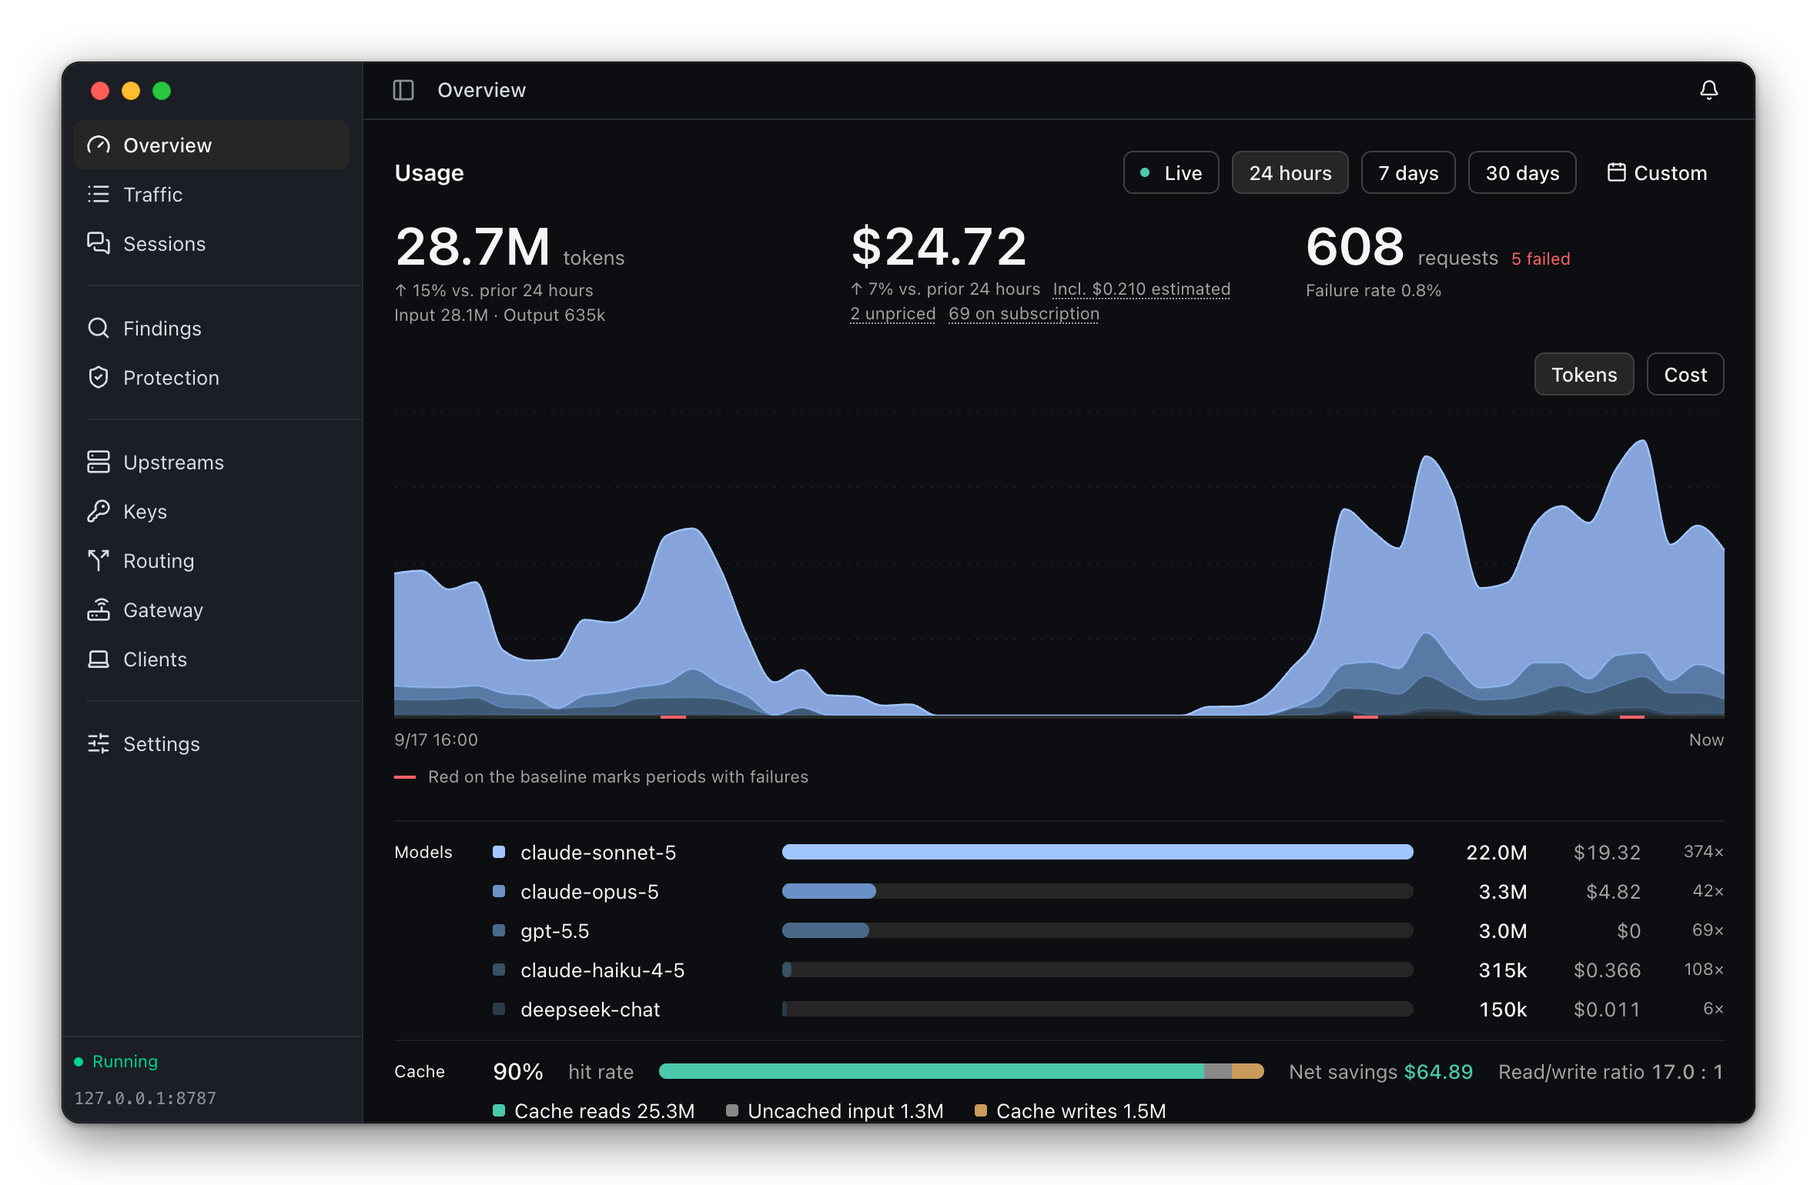
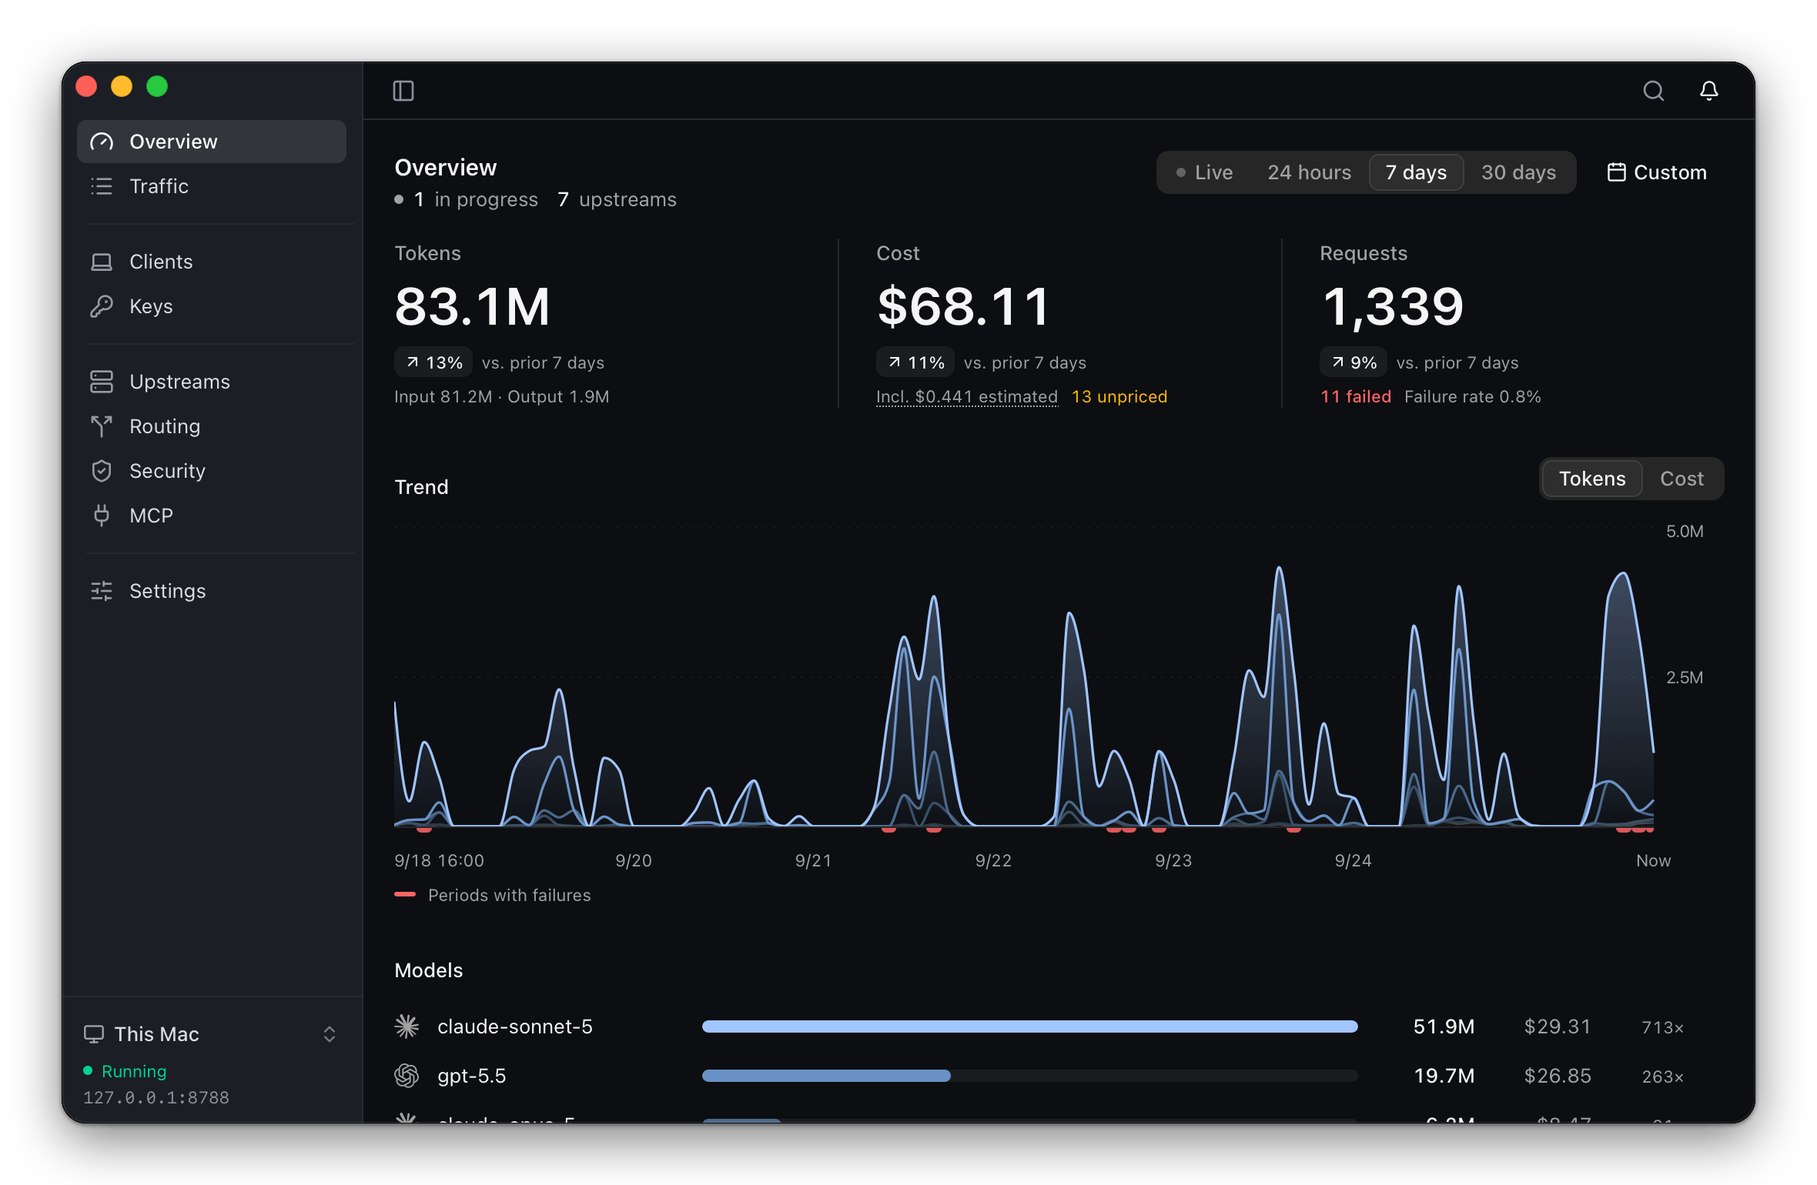
docs(profile): three products in a formal register, with install paths and current screenshots (#9)
- Describe ThinkWatch Enterprise, ThinkWatch Lite and ThinkWatch Core side
  by side, and replace the question heading, the slogan and the emoji
  section markers with noun-phrase headings and declarative text.
- Lite: what the app records (cost, routing, the five security
  protections and their defaults, MCP, clients, menu bar and
  notifications), the interface languages, the remote core connection,
  and the platforms and install commands.
- Core: prebuilt binaries, the Linux server install script and a Cargo
  build, with links to the server deployment guide and the configuration
  reference; prices come from a public price table refreshed daily, not a
  fixed snapshot.
- Replace the Lite overview screenshots with the English ones from the
  Lite repository's screenshot pipeline (docs/screenshots/en/overview-*.png
  at ThinkWatch-Lite@ac57512), which show the current navigation.
- List the Homebrew tap among the repositories, and link the security
  policy and the commercial license page.

diff --git a/profile/README.md b/profile/README.md
@@ -5,13 +5,13 @@
   </picture>
 </p>
 
-<h3 align="center">One gateway between your AI clients and the models they call</h3>
+<h3 align="center">AI API and MCP gateways</h3>
 
-<p align="center">For a whole organization, or for one developer's machine.</p>
+<p align="center">ThinkWatch Enterprise for organizations, ThinkWatch Lite for individual developers, and ThinkWatch Core, the gateway engine they share.</p>
 
 <p align="center">
-  <a href="https://thinkwat.ch">Website</a> ·
-  <a href="https://thinkwat.ch/docs">Docs</a> ·
+  <a href="https://thinkwat.ch/">Website</a> ·
+  <a href="https://thinkwat.ch/docs/">Documentation</a> ·
   <a href="https://github.com/ThinkWatchProject/ThinkWatch">ThinkWatch Enterprise</a> ·
   <a href="https://github.com/ThinkWatchProject/ThinkWatch-Lite">ThinkWatch Lite</a> ·
   <a href="https://github.com/ThinkWatchProject/ThinkWatch-Core">ThinkWatch Core</a>
@@ -19,57 +19,58 @@
 
 ---
 
-Claude Code, Codex, Cursor, and your own agents talk to model providers
-directly. API keys end up scattered, nobody sees what was sent, and the bill is
-a surprise. ThinkWatch puts a gateway in that path, so every model request and
-tool call is routed, checked, and accounted for.
-
-It comes as two products, built for different people.
+AI clients such as Claude Code, Codex and Cursor call model providers
+directly, each with its own API key and without a shared record of what was
+sent or what it cost. ThinkWatch places a gateway on that path. Each request
+is routed to an upstream, inspected in both directions and recorded with its
+cost. ThinkWatch Enterprise adds organization-wide authentication,
+permissions, rate limits and budgets, and passes MCP tool calls through the
+same gateway.
 
 <table>
   <tr>
-    <td width="50%" valign="top">
-      <h3>🏢 ThinkWatch Enterprise</h3>
-      <p><b>For teams and enterprises</b></p>
-      <p>A self-hosted AI API and MCP gateway. Virtual keys, SSO and RBAC, audit logs, rate limits and budgets, and cost attribution, all in one control plane.</p>
-      <p>
-        <a href="https://github.com/ThinkWatchProject/ThinkWatch/stargazers"><img src="https://img.shields.io/github/stars/ThinkWatchProject/ThinkWatch?style=social" alt="GitHub Stars" /></a>
-      </p>
-      <p><sub>Rust · React · PostgreSQL · Redis · Kubernetes<br>Business Source License 1.1</sub></p>
+    <td width="33%" valign="top">
+      <h3>ThinkWatch Enterprise</h3>
+      <p><b>For organizations</b></p>
+      <p>A self-hosted AI API and MCP gateway with a web console: virtual keys, SSO through OIDC, role-based access control, audit logs, rate limits and budgets.</p>
+      <p><sub>Rust · React · PostgreSQL · Redis · ClickHouse<br>Docker Compose or Kubernetes<br>Business Source License 1.1</sub></p>
       <p><a href="https://github.com/ThinkWatchProject/ThinkWatch"><b>ThinkWatchProject/ThinkWatch</b></a></p>
     </td>
-    <td width="50%" valign="top">
-      <h3>💻 ThinkWatch Lite</h3>
+    <td width="33%" valign="top">
+      <h3>ThinkWatch Lite</h3>
       <p><b>For individual developers</b></p>
-      <p>A desktop app for a local AI API gateway, in the macOS menu bar, the Windows notification area or the Linux system tray. Point Claude Code, Codex CLI or another client at a local port, and see what each request cost, which upstream served it and why, and what was sent along with it.</p>
-      <p><sub>Tauri 2 · React 19 · Rust<br>MIT License · macOS 12 or later, Apple silicon · Windows 10 21H2 or later, x64 or ARM64 · Linux, x86_64 or aarch64</sub></p>
+      <p>A desktop app for a local AI API gateway. It shows what each request cost, where it was routed and what was redacted, and it can also connect to ThinkWatch Core running on a server.</p>
+      <p><sub>Tauri 2 · React 19 · Rust<br>macOS · Windows · Linux<br>MIT License</sub></p>
       <p><a href="https://github.com/ThinkWatchProject/ThinkWatch-Lite"><b>ThinkWatchProject/ThinkWatch-Lite</b></a></p>
+    </td>
+    <td width="33%" valign="top">
+      <h3>ThinkWatch Core</h3>
+      <p><b>For servers and for projects built on the engine</b></p>
+      <p>Rust crates and the <code>twcore</code> gateway binary. It runs inside ThinkWatch Lite, or on its own as a gateway on a Linux server.</p>
+      <p><sub>Rust<br>macOS · Windows · Linux<br>MIT License</sub></p>
+      <p><a href="https://github.com/ThinkWatchProject/ThinkWatch-Core"><b>ThinkWatchProject/ThinkWatch-Core</b></a></p>
     </td>
   </tr>
 </table>
 
-Underneath both sits [**ThinkWatch Core**](https://github.com/ThinkWatchProject/ThinkWatch-Core),
-a set of MIT-licensed Rust crates for routing, failover, cost accounting, and
-redaction.
+## Choosing a product
 
-## Which one is for you?
-
-| If you… | Use |
+| Requirement | Product |
 |---|---|
-| run AI access for a team and need keys, permissions, audit, and budgets in one place | **ThinkWatch Enterprise** |
-| need to govern MCP tool calls across an organization | **ThinkWatch Enterprise** |
-| are one developer who wants to know what your coding agents cost and where their requests go | **ThinkWatch Lite** |
-| are building your own gateway, or want the routing and redaction engine as a library | **ThinkWatch Core** |
+| Central control of AI access for a team or a company: keys, permissions, audit and budgets | **ThinkWatch Enterprise** |
+| Governance of MCP tool calls across an organization | **ThinkWatch Enterprise** |
+| A record of what one developer's coding agents cost and where their requests went | **ThinkWatch Lite** |
+| A gateway on a Linux server, managed from ThinkWatch Lite on a desktop | **ThinkWatch Core** with **ThinkWatch Lite** |
+| The routing, pricing and redaction engine as Rust crates | **ThinkWatch Core** |
 
 ---
 
-## 🏢 ThinkWatch Enterprise: the AI bastion host
+## ThinkWatch Enterprise
 
-Just as an SSH bastion host is the single gateway through which all server
-access flows, ThinkWatch Enterprise is the single gateway through which all AI
-access flows.
-
-> Every model request. Every tool call. Every token. **Authenticated, authorized, rate-limited, logged, and accounted for.**
+ThinkWatch Enterprise is an AI bastion host. In the way that an SSH bastion
+host is the single entry point for access to servers, ThinkWatch Enterprise is
+the single entry point for an organization's AI API requests and MCP tool
+calls.
 
 ```
                     ┌──────────────────────────────────────┐
@@ -84,80 +85,175 @@ access flows.
                     └──────────────────────────────────────┘
 ```
 
-- **AI API gateway.** OpenAI, Anthropic, Google Gemini, Azure OpenAI, and AWS Bedrock behind one endpoint, with scoped virtual keys per team, project, or developer.
-- **MCP gateway.** A central tool proxy with namespace isolation, tool-level RBAC, and an audit trail for every invocation.
-- **Security and compliance.** SSO through any OIDC provider, role-based access control, PII redaction, and encryption at rest.
-- **Rate limits and budgets.** Request and token limits per key or per user, with spend budgets and alerts.
-- **Observability.** Searchable audit logs, cost analytics, and Prometheus metrics.
+- **AI API gateway.** The OpenAI Chat Completions, Anthropic Messages, OpenAI
+  Responses and Gemini APIs on one port, in front of OpenAI, Anthropic, Google
+  Gemini, Azure OpenAI, AWS Bedrock and OpenAI-compatible providers. Virtual
+  API keys carry their own scopes, rotation and expiry.
+- **MCP gateway.** Upstream MCP servers can receive the calling user's own
+  OAuth token or access token, stored encrypted, instead of a shared service
+  account. Tools are namespaced per server and granted per role and per key,
+  and every invocation is recorded in the audit log.
+- **Security and compliance.** Single sign-on through any OIDC provider, five
+  built-in roles, PII redaction, and AES-256-GCM encryption of provider keys
+  and user credentials at rest.
+- **Rate limits and budgets.** Sliding-window request and token limits, and
+  daily, weekly or monthly token budgets, per user, API key, provider or MCP
+  server, with budget alerts.
+- **Observability.** Audit logs of every AI request and tool call, stored in
+  ClickHouse and optionally forwarded to syslog, Kafka or webhooks; usage and
+  cost analytics; Prometheus metrics.
 
-Start with the [Quick Start](https://github.com/ThinkWatchProject/ThinkWatch#quick-start), or read the [docs](https://thinkwat.ch/docs).
+ThinkWatch Enterprise is deployed with Docker Compose or on Kubernetes with a
+Helm chart. The [Quick Start](https://github.com/ThinkWatchProject/ThinkWatch#quick-start)
+runs it locally, and the [deployment guide](https://thinkwat.ch/docs/deployment-guide/)
+covers production.
 
-## 💻 ThinkWatch Lite: your local gateway, on your desktop
+## ThinkWatch Lite
 
-- **What it cost, and how far to trust that number.** Measured, estimated, and unpriced are reported separately and never added together; usage served by a subscription is counted apart from billed usage.
-- **Where each request went, and why.** The rule it matched, the group it went through, and every upstream attempt with its status and duration. A dry run answers the same question before any traffic.
-- **What went out with it.** Secrets replaced on their way to an untrusted upstream and restored in the response, dangerous tool calls cut off mid-stream, and client configuration files scanned for hidden characters and dangerous commands.
-- **Cost at a glance.** Today's cost and output rate, or the quota left on a subscription account, right in the menu bar, the notification area or the system tray.
+ThinkWatch Lite is a desktop app that runs a local AI API gateway from the
+macOS menu bar, the Windows notification area or the Linux system tray.
+Claude Code, Codex and other clients of the Anthropic, OpenAI and Gemini APIs
+send their requests to the gateway, and the app records what each request
+cost, which upstream served it and what was redacted before it was sent.
 
-Released for macOS 12 or later on Apple silicon, for Windows 10 21H2 or later
-on x64 and ARM64, and for Linux (Ubuntu 22.04, Debian 12, Fedora 36 or later) on
-x86_64 and aarch64. The gateway ships inside the app, and the app updates itself.
-[thinkwat.ch/lite](https://thinkwat.ch/lite#install) has one-click downloads of
-the latest version for each. On macOS, Homebrew works too:
+- **Cost.** Each request is priced when it completes. The default price sheet
+  follows a public price table that is refreshed daily, and custom price
+  sheets cover relays that charge differently. Estimated amounts are marked
+  as estimates, and usage without a price is reported as unpriced rather than
+  counted as zero.
+- **Routing.** Rules match on the model, the gateway key, the API format, the
+  input size and the features of a request, and send it to an upstream or to
+  a group that falls back in order, uses a selected member, takes turns, or
+  picks the fastest or the cheapest member. Until the first byte of a
+  response arrives, a failing upstream is replaced by the next one. Each
+  request records the rule it matched and every upstream attempt, and a dry
+  run evaluates the rules for a sample request without sending it.
+- **Security.** Five protections, each set to Off, Observe or Enforce:
+  redaction of credentials in outgoing requests, restored in the response;
+  inspection of the tool calls an upstream returns; detection of hidden
+  characters; content rules; and a limit on output length. The first four
+  are set to Observe by default and the output limit to Off. Built-in rules
+  are listed alongside custom ones, and every match is written to the
+  security log.
+- **MCP.** The MCP servers configured in each client are shown side by side
+  and can be copied between clients or removed; each change is shown before
+  it is written, and the original file is backed up. Client configuration,
+  skills, hooks, slash commands, subagents and project instructions are
+  scanned for hidden characters, prompt injection, dangerous commands and
+  overly broad permissions.
+- **Clients.** Claude Code, Codex, OpenCode, Zed and Aider are pointed at the
+  gateway from the Clients page and can be restored to their previous
+  configuration; for Cursor, Continue and Gemini CLI, the page lists the
+  manual steps.
+- **Menu bar and notifications.** On macOS the menu bar shows today's token
+  usage and cost, and its menu lists requests in progress, the output rate
+  and the quota of subscription accounts. On Windows and Linux the same menu
+  opens from the tray icon. System notifications report conditions that
+  need action, such as an exhausted subscription quota, an expired sign-in
+  or a blocked tool call.
+
+The interface is available in English and Simplified Chinese. It follows the
+system language and can be switched in Settings.
+
+The gateway can also run on a server: ThinkWatch Lite connects to ThinkWatch
+Core on another machine over an encrypted control channel, using the key that
+`twcore control-key` prints on that machine. Remote connections are added in
+Settings › Connection. The app uses one core at a time: while it is connected
+to a remote core, the local core stops and its data is kept. The Clients and
+MCP pages continue to act on the machine the app runs on.
+
+ThinkWatch Lite is released for macOS 12 or later on Apple silicon, Windows 10
+21H2 or later on x64 and ARM64, and Linux on x86_64 and aarch64 (Ubuntu 22.04,
+Debian 12, Fedora 36 or later). The gateway ships inside the app, and the app
+updates itself; a Homebrew installation is updated through Homebrew.
+[thinkwat.ch/lite](https://thinkwat.ch/lite/#install) offers downloads of the
+latest version for each platform. On macOS, the app can also be installed
+with Homebrew:
 
 ```bash
 brew install --cask thinkwatchproject/tap/thinkwatch-lite
 ```
 
-On Linux, one line installs the AppImage:
+On Linux, one command installs the AppImage:
 
 ```bash
 curl -fsSL https://github.com/ThinkWatchProject/ThinkWatch-Lite/releases/latest/download/install.sh | sh
 ```
 
-The disk image, the Windows installers and the AppImages are also on the
-[latest release](https://github.com/ThinkWatchProject/ThinkWatch-Lite/releases/latest).
-The Windows installers are not code-signed: when SmartScreen stops one, choose
-**More info**, then **Run anyway**.
+The disk image, the Windows installers and the AppImages are also attached to
+the [latest release](https://github.com/ThinkWatchProject/ThinkWatch-Lite/releases/latest).
+The Windows installers are not code-signed: when SmartScreen blocks one,
+choose **More info**, then **Run anyway**.
 
 <picture>
   <source media="(prefers-color-scheme: dark)" srcset="/assets/lite-overview-dark.png">
-  <img src="/assets/lite-overview-light.png" alt="ThinkWatch Lite's usage overview: tokens, cost and requests, a 24-hour trend stacked by model, the leaderboard by model and the cache hit rate">
+  <img src="/assets/lite-overview-light.png" alt="The ThinkWatch Lite overview page: tokens, cost and requests for the last seven days compared with the seven days before, a trend chart by model with periods of failures marked, and usage by model">
 </picture>
 
-## 🧩 ThinkWatch Core: the shared engine
+## ThinkWatch Core
 
-Rule-based routing, mid-flight failover, cost accounting against a price
-snapshot, outbound secret redaction, and inspection of tool calls coming back
-from upstream. `twcore` is a complete, self-contained gateway binary built from
-these crates:
+ThinkWatch Core is the gateway engine: a set of Rust crates and the `twcore`
+binary built from them. It provides rule-based routing, failover between
+upstreams before the first byte of a response, cost accounting against a
+public price table that is refreshed daily, redaction of credentials in
+outgoing requests, and inspection of the tool calls an upstream returns.
+ThinkWatch Lite runs `twcore` as its local gateway, and `twcore` also runs on
+its own as a gateway on a server. ThinkWatch Enterprise uses three of its
+crates: `tw-dialect` for format conversion and usage parsing, `tw-guard` for
+redaction and tool-call inspection, and `tw-breaker` for circuit breaking.
+
+Each [release](https://github.com/ThinkWatchProject/ThinkWatch-Core/releases/latest)
+includes a `twcore` binary for macOS on Apple silicon, Windows on x64 and
+ARM64, and Linux on x86_64 and aarch64, each with a SHA-256 checksum; the
+Linux archives also contain the systemd unit.
+
+On a Linux server, one command installs the binary, a dedicated service user
+and the systemd unit:
 
 ```bash
-cargo run -p twcore -- init     # write a commented config.yaml
-cargo run -p twcore -- serve    # start the gateway and control plane
+curl -fsSL https://raw.githubusercontent.com/ThinkWatchProject/ThinkWatch-Core/main/scripts/install.sh | sudo sh
 ```
+
+[Running core on a server](https://github.com/ThinkWatchProject/ThinkWatch-Core/blob/main/docs/server.md)
+describes the configuration, the remote control port that ThinkWatch Lite
+connects to, and upgrades with `twcore upgrade`. Every field of `config.yaml`
+is described in the [configuration reference](https://github.com/ThinkWatchProject/ThinkWatch-Core/blob/main/docs/config.md).
+
+To build `twcore` from source with Cargo:
+
+```bash
+cargo install --git https://github.com/ThinkWatchProject/ThinkWatch-Core --locked twcore
+```
+
+This builds the current `main` branch; `--tag v<version>` builds a release
+instead.
 
 ---
 
-## 📚 Repositories
+## Repositories
 
-| Repository | What it is | License |
+| Repository | Contents | License |
 |---|---|---|
-| [**ThinkWatch Enterprise**](https://github.com/ThinkWatchProject/ThinkWatch) | Self-hosted AI API and MCP gateway: server, proxy, and web console | BSL 1.1 |
-| [**ThinkWatch Lite**](https://github.com/ThinkWatchProject/ThinkWatch-Lite) | Desktop app for individual developers, on macOS, Windows and Linux | MIT |
-| [**ThinkWatch Core**](https://github.com/ThinkWatchProject/ThinkWatch-Core) | Shared gateway engine, as Rust crates and the `twcore` binary | MIT |
-| [**thinkwatch.github.io**](https://github.com/ThinkWatchProject/thinkwatch.github.io) | Source of [thinkwat.ch](https://thinkwat.ch) | |
+| [**ThinkWatch**](https://github.com/ThinkWatchProject/ThinkWatch) | ThinkWatch Enterprise: the gateway server, the MCP gateway and the web console | BSL 1.1 |
+| [**ThinkWatch-Lite**](https://github.com/ThinkWatchProject/ThinkWatch-Lite) | ThinkWatch Lite, the desktop app for macOS, Windows and Linux | MIT |
+| [**ThinkWatch-Core**](https://github.com/ThinkWatchProject/ThinkWatch-Core) | ThinkWatch Core: the Rust crates and the `twcore` binary | MIT |
+| [**homebrew-tap**](https://github.com/ThinkWatchProject/homebrew-tap) | The Homebrew cask for ThinkWatch Lite | MIT |
+| [**thinkwatch.github.io**](https://github.com/ThinkWatchProject/thinkwatch.github.io) | Source of [thinkwat.ch](https://thinkwat.ch/) | |
 
-## 📄 License
+## Licenses
 
 **ThinkWatch Lite** and **ThinkWatch Core** are released under the MIT License.
 
 **ThinkWatch Enterprise** is source-available under the [Business Source License 1.1](https://github.com/ThinkWatchProject/ThinkWatch/blob/main/LICENSE).
 Non-production use is free. Production use is free up to `10,000,000` Billable
-Tokens and `10,000` MCP Tool Calls per UTC calendar month. See
+Tokens and `10,000` MCP Tool Calls per UTC calendar month; above either
+threshold, a commercial license is required.
 [LICENSING.md](https://github.com/ThinkWatchProject/ThinkWatch/blob/main/LICENSING.md)
-for the full terms, the tiering model, and the changeover to GPL-2.0-or-later.
+sets out the full terms, the tiering model and the conversion of each version
+to GPL-2.0-or-later, and [thinkwat.ch/license](https://thinkwat.ch/license/)
+gives the contact for commercial licenses.
 
----
+## Security
 
-<p align="center">Made with ❤ for AI-native engineers and teams</p>
+Vulnerabilities are reported privately, as described in the
+[security policy](https://github.com/ThinkWatchProject/.github/blob/main/SECURITY.md).
